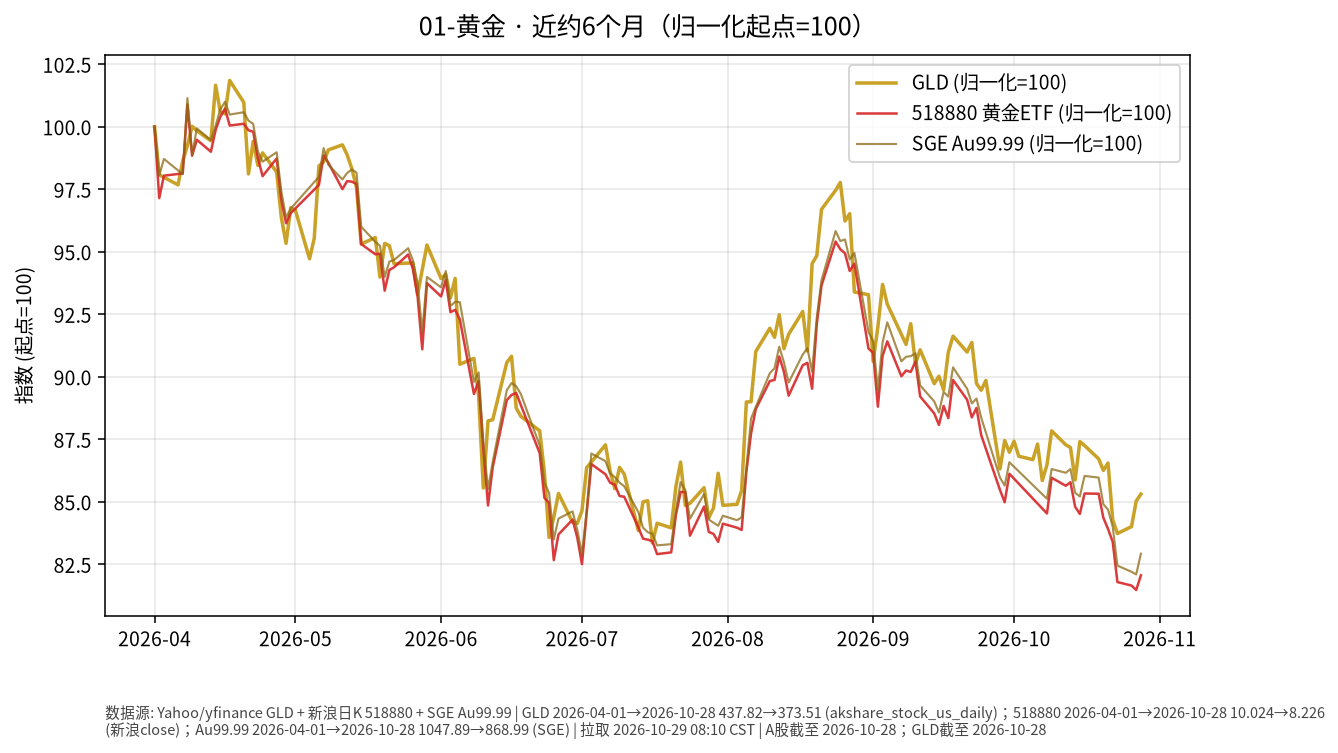
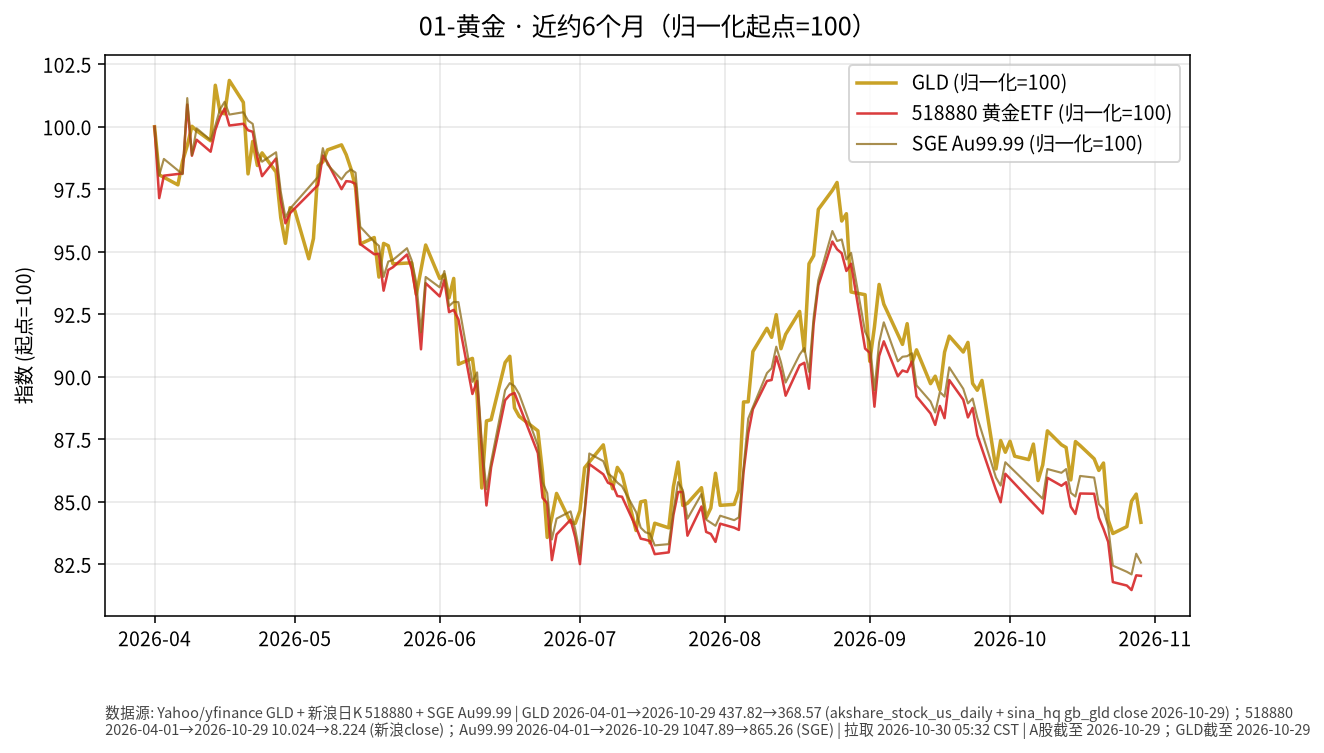
docs: 五门类投资日报 2026-10-30

diff --git a/01-黄金/日报/2026-10-30.md b/01-黄金/日报/2026-10-30.md
@@ -1,0 +1,30 @@
+# 黄金 · 日报 2026-10-30
+
+## 市场状态
+- **报告日**：2026-10-30（周五，Asia/Shanghai 盘前例程）
+- **数据截止交易日**：美股/GLD **2026-10-29**；A 股/沪金 **2026-10-29**（周四收盘；周五盘前取上一交易日）。A 股交易日历显示 **2026-10-29 为交易日**；**2026-10-30 为开市日**，本页数字不含周五盘中。
+- GLD 收盘 **368.57**，较前一交易日 **-1.32%**（akshare 日 K 至 10-28；10-29 由新浪美股报价补齐；yfinance/Yahoo 当日限流）。
+- 沪金 AU9999：**2026-10-29** 收盘 **865.26** 元/克（**-0.43%**）；黄金 ETF 518880 收 **8.224**（**-0.02%**）。
+
+## 关键数据
+| 标的 | 最近收盘日 | 收盘 | 日涨跌 | 近约6个月（归一起点日） | 区间涨跌 |
+|------|------------|------|--------|-------------------------|----------|
+| GLD | 2026-10-29 | 368.57 | -1.32% | 2026-04-29→2026-10-29 | -11.70% |
+| 518880 黄金ETF | 2026-10-29 | 8.224 | -0.02% | 2026-04-29→2026-10-29 | -14.66% |
+| AU9999（沪金） | 2026-10-29 | 865.26 | -0.43% | 2026-04-29→2026-10-29 | -14.32% |
+
+![近6个月走势](./charts/01-黄金-6m.png)
+
+## 简要解读
+- 美元计价黄金 ETF（GLD）在 **2026-10-29** 明显回落（约 **-1.32%**）；境内 518880 近乎持平（约 **-0.02%**），沪金 AU9999 下行约 **-0.43%**。近约半年归一后约 **-11.70%～-14.66%**。
+- 价格变动同时受美元、实际利率与风险情绪影响；本页只描述已发生报价，不推断下一步方向。
+
+## 关注点与风险
+- 汇率：境内投资者若以人民币计量，还需叠加美元兑人民币变动，账面涨跌可能与 GLD 美元涨跌不一致。
+- 波动：黄金阶段性回撤后波动仍可能放大；ETF 净值/溢价、交易时段与现货不完全同步。
+- 数据完整性：GLD 历史主序列来自 akshare（至 10-28），**2026-10-29** 收盘由新浪 `gb_gld` 报价补齐；yfinance/Yahoo 当日限流。518880 新浪日 K；SGE Au99.99 完整。图中三条归一曲线均已叠加。
+
+## 来源与时间
+- GLD：akshare `stock_us_daily`（至 2026-10-28）+ 新浪 hq `gb_gld`（补 2026-10-29 收 368.57）；拉取约 2026-10-30 05:32 Asia/Shanghai
+- 518880：新浪日 K；AU9999：上海金交所 Dailyhq
+- 图表：Python matplotlib，收盘价归一到起点=100（图窗自 2026-04-01 起）

diff --git a/03-国债/日报/2026-10-30.md b/03-国债/日报/2026-10-30.md
@@ -1,0 +1,29 @@
+# 国债 · 日报 2026-10-30
+
+## 市场状态
+- **报告日**：2026-10-30；**数据截止交易日**：**2026-10-29**。
+- 国债 ETF 511010 收 **141.285**，日涨跌 **+0.049%**。
+- 中债国债收益率曲线 **10 年期** 2026-10-29 报 **1.6233%**，较上一交易日（2026-10-28 的 1.6345%）约 **-1.12 BP**（akshare `bond_zh_us_rate`）。
+- **提醒**：利率下行（曲线下移）通常对应既有国债价格偏支持；图中 ETF 净值涨 ≠ 收益率涨。**利率↑线↑≠债价涨**。
+
+## 关键数据
+| 标的 | 收盘日 | 收盘/收益率 | 日变化 | 约6个月 | 区间 |
+|------|--------|-------------|--------|---------|------|
+| 511010 | 2026-10-29 | 141.285 | +0.049% | 2026-04-29→2026-10-29 | +0.27% |
+| 中债10Y国债收益率 | 2026-10-29 | 1.6233% | 约-1.12 BP | 2026-04-01→2026-10-29 | 约 -20.11 BP（akshare 序列） |
+
+![近6个月走势](./charts/03-国债-6m.png)
+
+## 简要解读
+- 511010 近半年归一涨跌约 **+0.27%**，路径相对平缓；2026-10-29 微升，同时 10Y 收益率较前一日下行约 1.12 BP（利率↓对存量债价偏支持，与 ETF 同日微升方向一致，但单日仍可能受供需/折溢价影响）。
+- 久期越长，对收益率变化越敏感；本页只记录 ETF 收盘与曲线点位。图中右轴叠加中国10Y收益率日序。
+
+## 关注点与风险
+- 利率风险：收益率上行 → 债券市价下行。
+- 通胀预期、货币政策与供需（供给放量等）都会改变曲线形态。
+- 收益率序列来自公开曲线汇总，与 ETF 交易价时间戳不完全同步。
+
+## 来源与时间
+- 511010：新浪日 K；截止 2026-10-29
+- 收益率：akshare `bond_zh_us_rate`（2026-10-29，10Y=1.6233%）
+- 图表：matplotlib，ETF 收盘归一=100，中国10Y 收益率右轴

diff --git a/05-高股息/日报/2026-10-30.md b/05-高股息/日报/2026-10-30.md
@@ -1,0 +1,30 @@
+# 高股息 · 日报 2026-10-30
+
+## 市场状态
+- **报告日**：2026-10-30；**数据截止交易日**：**2026-10-29**。
+- 红利 ETF 510880 收 **3.420**（**+1.09%**）。
+- 招商银行 600036 收 **42.94**（**+1.92%**）；长江电力 600900 收 **29.99**（**+2.01%**）。
+- 红利 ETF、招行、长电同日均上行；分红与价格涨跌是两回事（股息率随股价变动）。
+- **价格口径**：本页序列为交易所日 K **未复权**收盘（新浪）。
+
+## 关键数据
+| 标的 | 收盘日 | 收盘 | 日涨跌 | 约6个月 | 区间涨跌 |
+|------|--------|------|--------|---------|----------|
+| 510880 红利ETF | 2026-10-29 | 3.420 | +1.09% | 2026-04-29→2026-10-29 | +2.18% |
+| 600036 招商银行 | 2026-10-29 | 42.94 | +1.92% | 2026-04-29→2026-10-29 | +11.53% |
+| 600900 长江电力 | 2026-10-29 | 29.99 | +2.01% | 2026-04-29→2026-10-29 | +12.03% |
+
+![近6个月走势](./charts/05-高股息-6m.png)
+
+## 简要解读
+- 近半年归一（未复权）：510880 约 **+2.18%**，招行约 **+11.53%**，长电约 **+12.03%**（个股路径强于宽基红利 ETF，不代表未来）。
+- 2026-10-29 三者均上行，属已发生的价格事实。
+
+## 关注点与风险
+- 银行与公用事业对利率、监管、来水/电价等基本面敏感；高股息不保证本金稳定。
+- 510880 成分与权重定期调整；个股与 ETF 走势可显著偏离。
+- 未复权序列在除权除息日会出现跳空，与前复权路径不一致属正常。
+
+## 来源与时间
+- 510880 / 600036 / 600900：新浪 CN_MarketData K 线（未复权）
+- 截止 2026-10-29；图表 matplotlib，起点=100

diff --git a/02-中短债/日报/2026-10-30.md b/02-中短债/日报/2026-10-30.md
@@ -1,0 +1,28 @@
+# 中短债 · 日报 2026-10-30
+
+## 市场状态
+- **报告日**：2026-10-30；**A 股数据截止交易日**：**2026-10-29**（周五盘前，取周四收盘）。交易日历：**2026-10-30 为开市日**。
+- 短融 ETF 511360 收 **114.103**（日涨跌 **+0.003%**）。
+- 159649（国开债 ETF 华安）收 **110.833**（日涨跌 **+0.037%**）。
+- 短端品种单日变动极小；仅作路径对照，非交易建议。
+
+## 关键数据
+| 标的 | 收盘日 | 收盘 | 日涨跌 | 约6个月区间 | 区间涨跌 |
+|------|--------|------|--------|-------------|----------|
+| 511360 短融ETF海富通 | 2026-10-29 | 114.103 | +0.003% | 2026-04-29→2026-10-29 | +0.61% |
+| 159649 国开债ETF华安 | 2026-10-29 | 110.833 | +0.037% | 2026-04-29→2026-10-29 | +1.06% |
+
+![近6个月走势](./charts/02-中短债-6m.png)
+
+## 简要解读
+- 两条曲线近半年均呈缓慢抬升（归一后约 **+0.61%** / **+1.06%**），单日波动接近于零，符合短久期利率品种特征。
+- 159649 跟踪国开债，久期与信用暴露通常高于纯短融；与 511360 并排只为对照路径，不暗示优劣。
+
+## 关注点与风险
+- 利率上行时净值可能回撤（即使票息仍为正）。
+- ETF 折溢价、流动性与跟踪误差；节假日后跳空可能出现。
+- 杠杆与加久期会放大波动——本报告不讨论、不鼓励此类操作。
+
+## 来源与时间
+- 新浪 CN_MarketData 日 K，截止 2026-10-29
+- 图表：matplotlib，起点归一=100；拉取约 2026-10-30 05:32 Asia/Shanghai

diff --git a/04-纯债/日报/2026-10-30.md b/04-纯债/日报/2026-10-30.md
@@ -1,0 +1,28 @@
+# 纯债 · 日报 2026-10-30
+
+## 市场状态
+- **报告日**：2026-10-30；**数据截止交易日**：**2026-10-29**。
+- 城投债 ETF 511220 收 **10.460**（**-0.057%**）。
+- 政金债/债券 ETF 511520 收 **120.062**（**+0.131%**）。
+- 511220 微跌、511520 微升；近半年仍呈缓慢抬升。
+
+## 关键数据
+| 标的 | 收盘日 | 收盘 | 日涨跌 | 约6个月区间 | 区间涨跌 |
+|------|--------|------|--------|-------------|----------|
+| 511220 城投债ETF海富通 | 2026-10-29 | 10.460 | -0.057% | 2026-04-29→2026-10-29 | +1.15% |
+| 511520 政金债ETF富国 | 2026-10-29 | 120.062 | +0.131% | 2026-04-29→2026-10-29 | +2.61% |
+
+![近6个月走势](./charts/04-纯债-6m.png)
+
+## 简要解读
+- 近半年归一：511220 约 **+1.15%**，511520 约 **+2.61%**；2026-10-29 前者微跌、后者微升。
+- 城投债含信用利差暴露，政金债更偏利率；并排对照路径，不评价孰优。
+
+## 关注点与风险
+- 信用利差扩张时，城投/信用类净值回撤可能大于利率债。
+- 利率上行同样压制久期更长的品种。
+- ETF 折溢价与跟踪误差；本报告不讨论杠杆与下沉信用。
+
+## 来源与时间
+- 新浪 CN_MarketData 日 K，截止 2026-10-29
+- 图表：matplotlib，起点归一=100

diff --git a/notes/invest-knowledge-100/今日一点/2026-10-30-day05.md b/notes/invest-knowledge-100/今日一点/2026-10-30-day05.md
@@ -1,0 +1,5 @@
+# 今日一点 · Day 5/100 · 《流动性分层》
+
+**结论：** 钱要先按「多久可能用到」分层，再决定放哪一类资产——应急活钱、1–3 年债、3–7 年债、卫星风险资产，各层职责不同，不能混着当一锅粥。
+
+**机制：** 应急活钱要随时可取、价格几乎不动（货基/存款缓冲一类），用来扛失业、医疗、突发支出。接下来 1–3 年可能用到的钱，更适合短久期利率债/中短债路径，波动通常小于长久期。3–7 年闲置资金才更谈得上承受利率波动的国债/政金债底仓。再往外才是黄金、高股息等「卫星」——只放亏得起、且动用年限够长的那一小部分。风险厌恶者常见坑是：把应急金塞进长久期或股票，或者反过来把十年闲钱全压在活期。债底仓是中间几层的主线；股票卫星排在最后，等路径清晰再划拨。今天只记分层顺序，不谈买卖。

diff --git a/notes/invest-knowledge-100/progress.md b/notes/invest-knowledge-100/progress.md
@@ -1,4 +1,4 @@
-next_day: 5
+next_day: 6
 started: 2026-10-26
-last_completed_day: 4
-last_date: 2026-10-29
+last_completed_day: 5
+last_date: 2026-10-30
